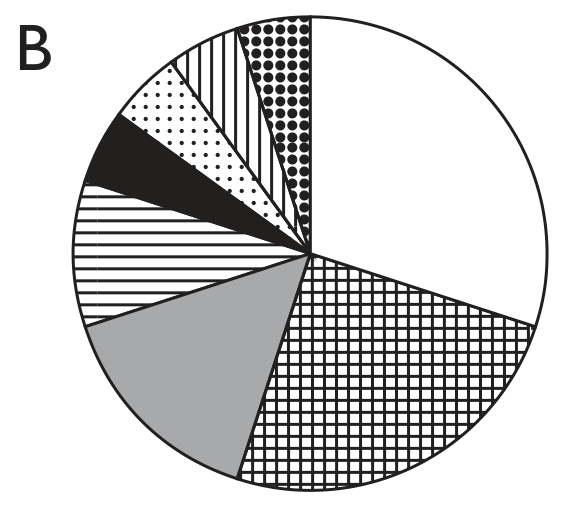
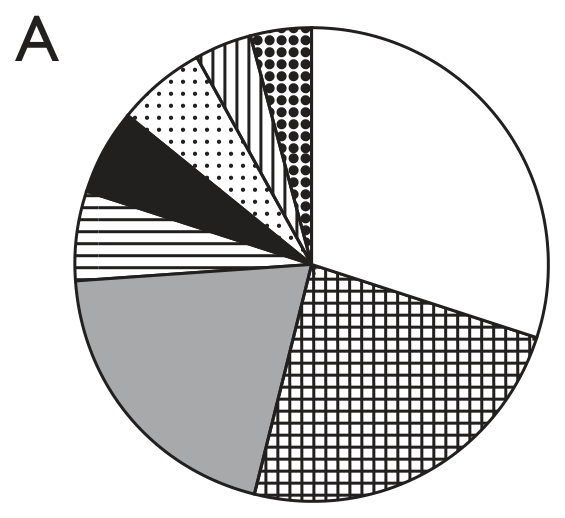
fix(parser): var-2015-kvant1-DTK-037 option-A clip box was a copy of B's
The 2x2 grid config pasted B's bottom-left coordinates for A, so the
A and B crops were byte-identical (both showing option B's pie). Point
A at the top-left cell; re-cropped A now renders its own pie.

diff --git a/parser/parse_dtk_option_figures.py b/parser/parse_dtk_option_figures.py
@@ -133,7 +133,7 @@ DTK_OPTION_FIGURES: dict[str, dict[str, object]] = {
         "page_idx": 20,
         "rotate": 90,
         "clip": {
-            "A": (2900 + 106 - 15, 940 + 846 - 15, 2900 + 641 + 15, 940 + 1323 + 15),
+            "A": (2900 + 106 - 15, 940 + 41 - 15, 2900 + 641 + 15, 940 + 529 + 15),
             "C": (2900 + 896 - 15, 940 + 41 - 15, 2900 + 1415 + 15, 940 + 529 + 15),
             "B": (2900 + 106 - 15, 940 + 846 - 15, 2900 + 641 + 15, 940 + 1323 + 15),
             "D": (2900 + 896 - 15, 940 + 845 - 15, 2900 + 1415 + 15, 940 + 1322 + 15),